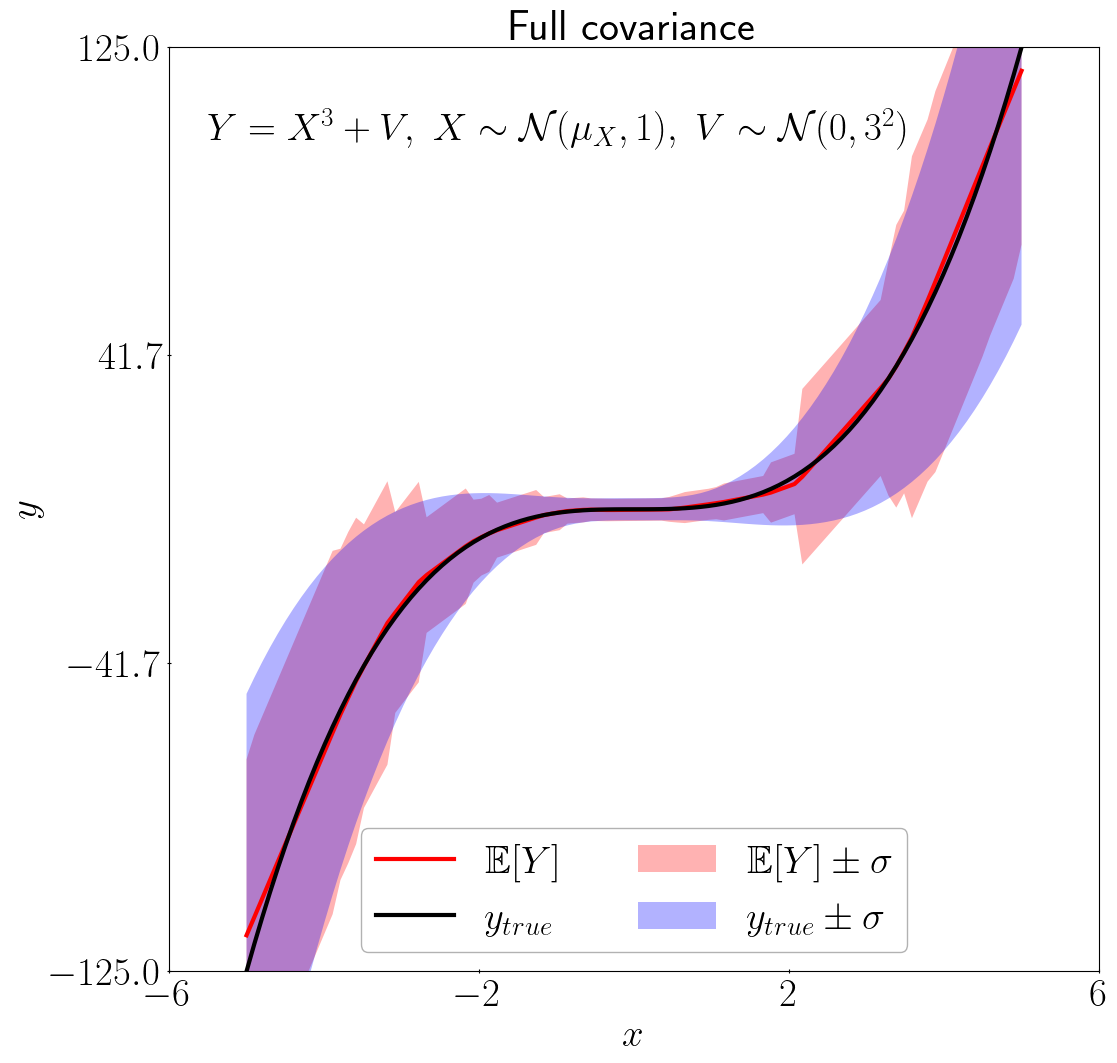
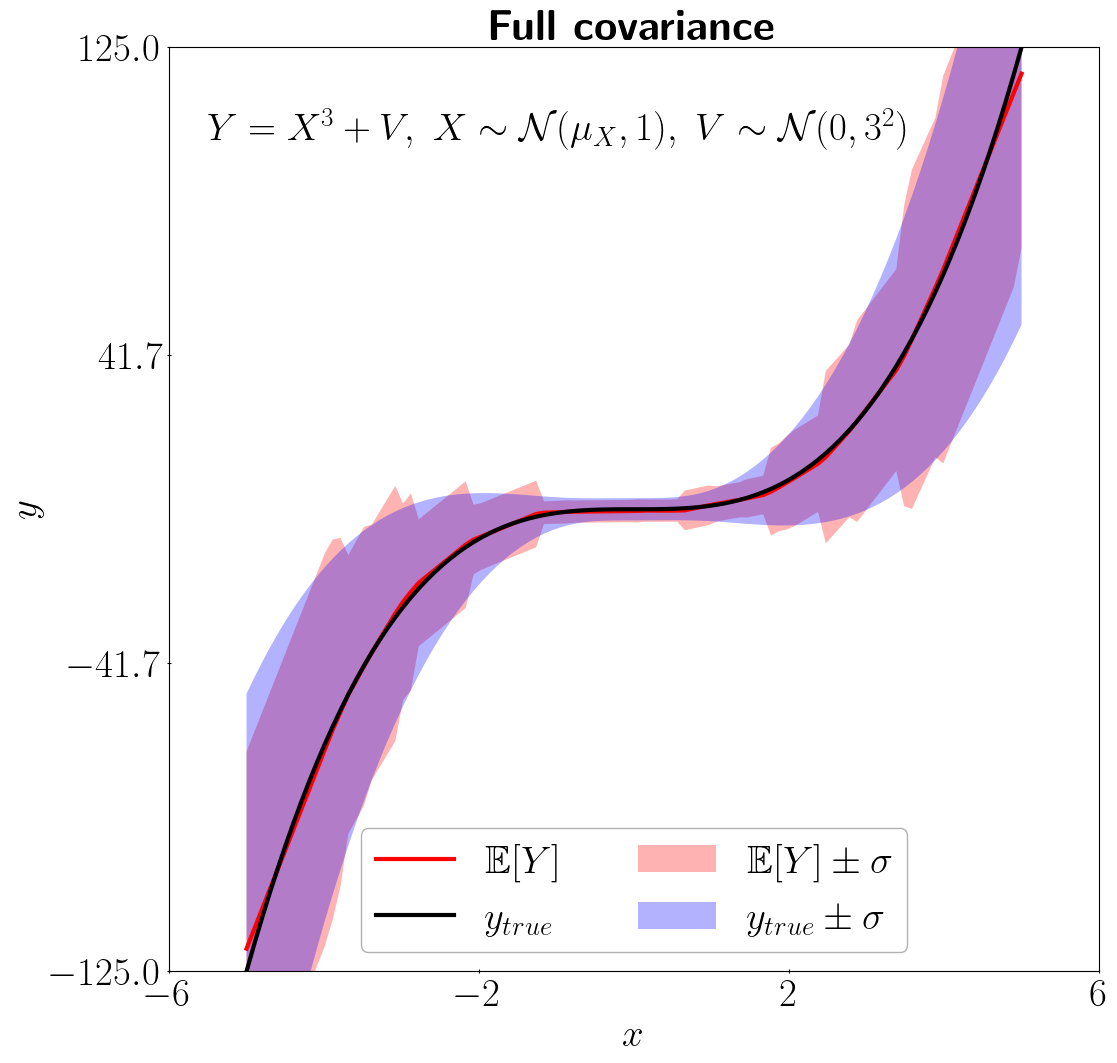
add latex title for visualizer

diff --git a/visualizer.py b/visualizer.py
@@ -172,16 +172,16 @@ class PredictionViz:
         plt.figure(figsize=self.figsize)
         ax = plt.axes()
         ax.set_title(title, fontsize=1.1 * self.fontsize, fontweight='bold')
-        ax.text(-5.5, 170, eq, color='k', fontsize=self.fontsize)
+        ax.text(-5.5, 100, eq, color='k', fontsize=self.fontsize)
         ax.plot(x_test, y_pred, 'r', lw=self.lw, label=r"$\mathbb{E}[Y]$")
         ax.plot(x_test, y_test, 'k', lw=self.lw, label=r"$y_{true}$")
 
         ax.fill_between(x_test,
-                        y_pred - 3 * sy_pred,
-                        y_pred + 3 * sy_pred,
+                        y_pred - 1 * sy_pred,
+                        y_pred + 1 * sy_pred,
                         facecolor='red',
                         alpha=0.3,
-                        label=r"$\mathbb{E}[Y]\pm3\sigma$")
+                        label=r"$\mathbb{E}[Y]\pm\sigma$")
         if sy_test is not None:
             ax.fill_between(x_test,
                             y_test - 1 * sy_test,
@@ -274,7 +274,7 @@ def regression():
                          y_pred=y_pred,
                          sy_pred=sy_pred,
                          label='diag',
-                         title='Diagonal covariance',
+                         title=r"\textbf{Diagonal covariance}",
                          eq=eq)
 
 
@@ -325,10 +325,10 @@ def input_uncertainty_prop():
                          sy_pred=sy_pred,
                          sy_test=sy_test,
                          label='full_cov',
-                         title='Full covariance',
+                         title=r"\textbf{Full covariance",
                          eq=eq)
 
 
 if __name__ == '__main__':
-    regression()
-    #input_uncertainty_prop()
+    #regression()
+    input_uncertainty_prop()

diff --git a/README.md b/README.md
@@ -228,7 +228,7 @@ sigma_v:    1
   build/main cfg_toy_full_cov_fc.txt
   ```
   <p align="left">
-  <img src="./saved_results/pred_diag_toy_example.png" width="400px"> <img src="./saved_results/pred_full_cov_toy_example.png" width="400px">
+  <img src="./saved_results/pred_diag_toy_example.png" width="350px"> <img src="./saved_results/pred_full_cov_toy_example.png" width="350px">
   </p>
 
 ## Directory Structure
